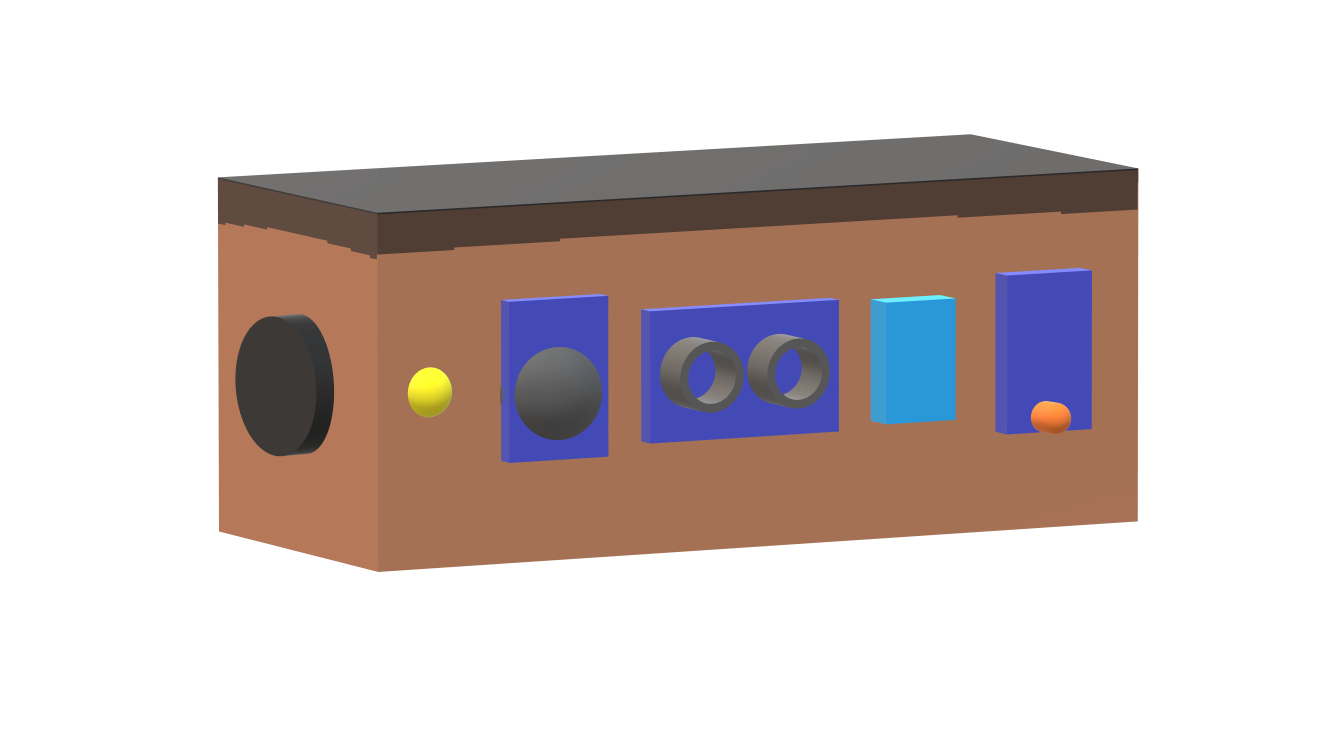
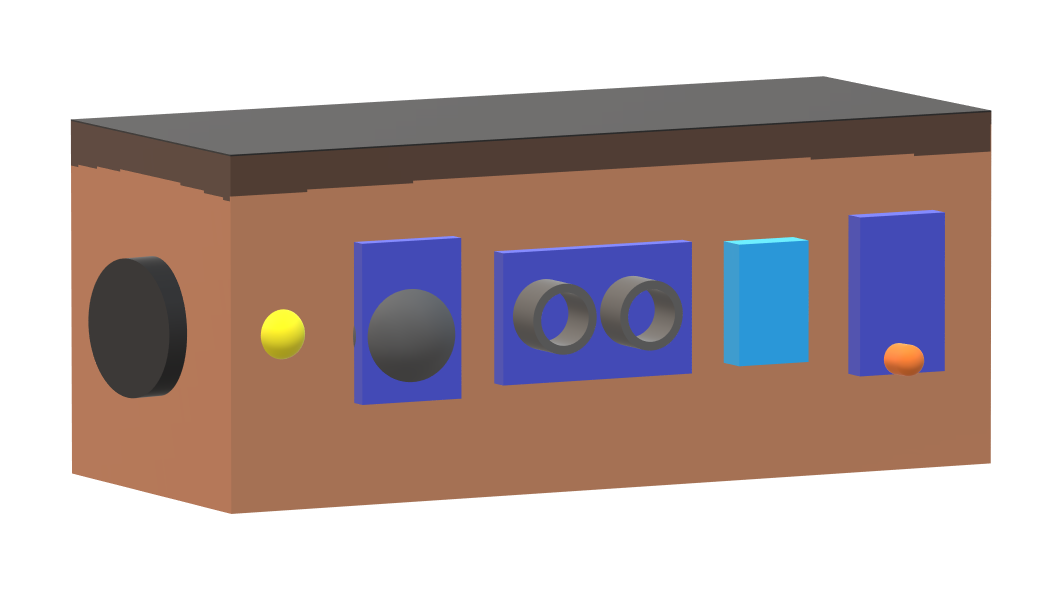
[chore] adjust in sketches and protoype

diff --git a/Practica2/README.md b/Practica2/README.md
@@ -54,6 +54,8 @@ En base a los bocetos antes mostrados, se realizó el prototipo con los sensores
 ![Prototipo](images/prototype2.jpg)
 ![Prototipo](images/prototype3.jpg)
 
+Donde es importante a mencionar que la simulación del sistema de seguridad se llevará a cabo por un miniservo de 180º, este estando conectado a la puerta de la caja, la cual se abrirá y cerrará de acuerdo a la información que se reciba de la aplicación móvil y la página web.
+
 ### Aplicación Web
 ![Mockup de la Aplicación](https://github.com/akamariano/ACE2_2S23_G2/blob/main/Practica2/images/Muckup.png)
 ### Aplicación Móvil
